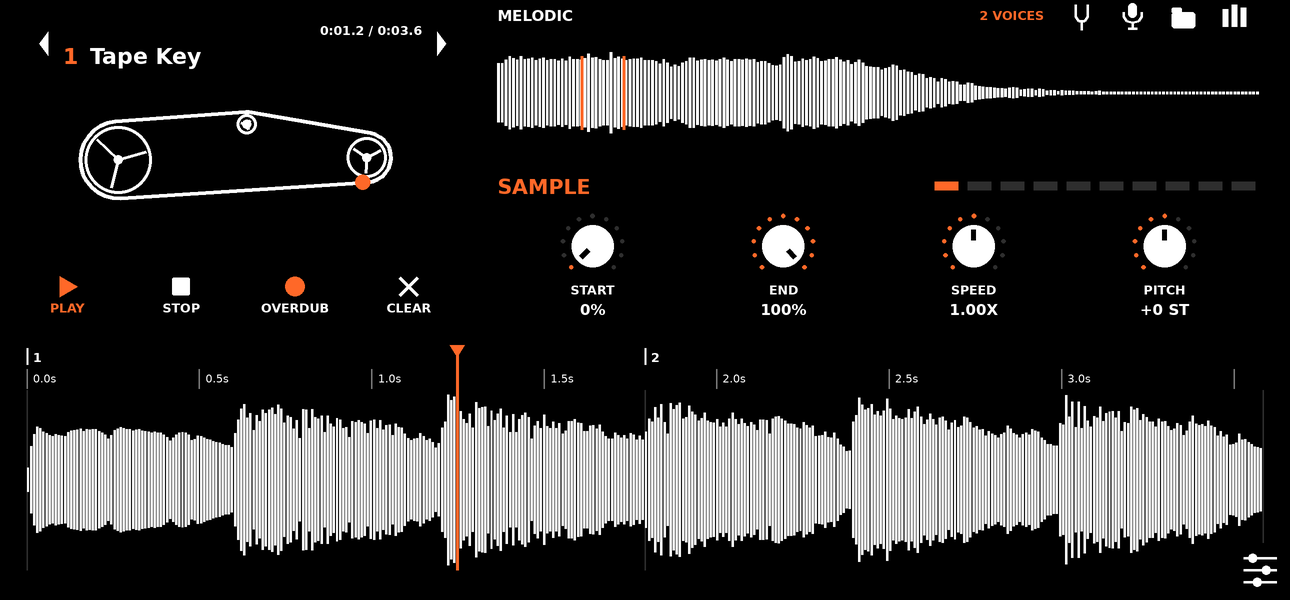
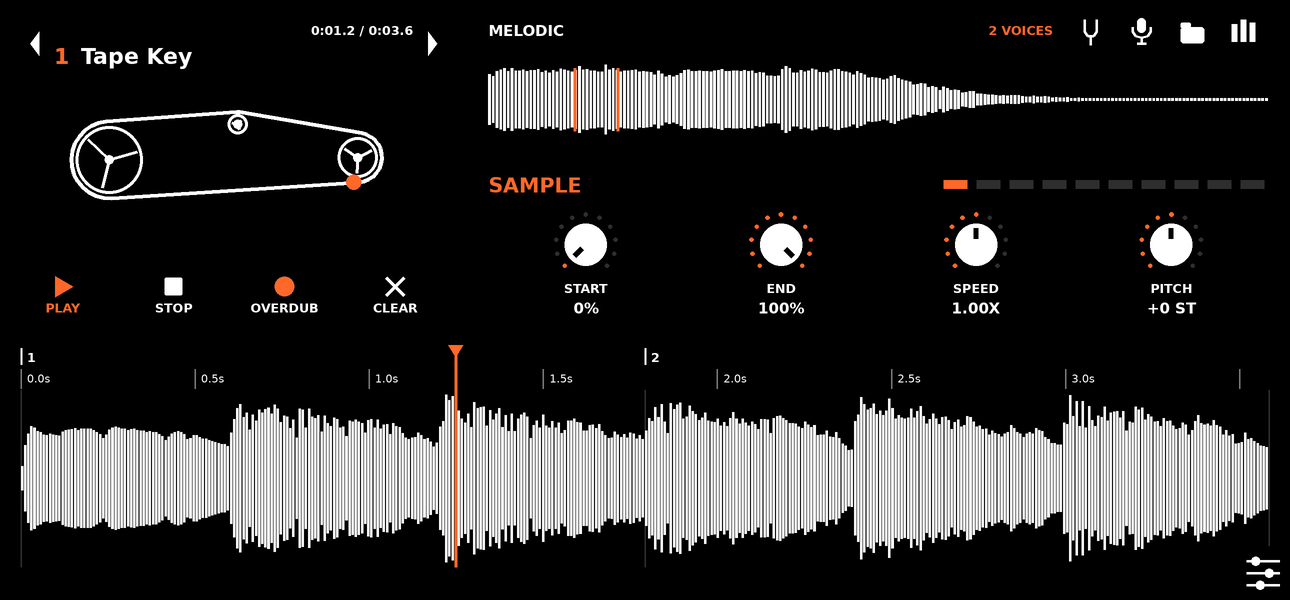
Drums: RMS loudness with a soft limiter instead of peak normalisation; deck layout on one grid (margins, text lines, spans)

diff --git a/engine/ui/SamplerUI.cpp b/engine/ui/SamplerUI.cpp
@@ -387,31 +387,32 @@ void SamplerUI::key(Rect r, const std::string& label, int icon, bool on, std::fu
 void SamplerUI::deck(Rect r) {
     rrect({0, 0, W_, H_}, 0, kBg);
     const bool recOn = st_.freeRecording || st_.track_clip_rec[app_.track()], armed = st_.freeArmed;
-    const float top = 0, ch = 170, cw = std::min(ch * 1.75f, W_ * 0.42f);
-    const float cxl = 10, zr = W_ - 20, x0 = cxl + cw + 24, w0 = zr - x0;
+    // one grid: a margin M on all four sides; the cassette label, the sample view header and the counter share one text line (y = 20),
+    // the knob values and the transport labels share one line (y = 205), the timeline starts and ends on the same vertical lines as everything above it
+    const float M = 14, top = 0, ch = 170, cw = std::min(ch * 1.75f, W_ * 0.42f);
+    const float cxl = M - 10, zr = W_ - M, x0 = cxl + cw + 24, w0 = zr - x0;
     cassette({cxl, top, cw, ch});
-    const float vh = 100;
-    sampleView({x0, top + 2, w0, vh});
-    const float py = top + vh + 24;
+    const float py = 123, vh = py - 22 - 12;
+    sampleView({x0, 12, w0, vh});
     text(x0, py, 15, kOrange, SamplerApp::pageName(app_.page()), 0, true);
     for (int i = 0; i < 10; i++) {   // the pages as notches: tap one to go there (the FM-1 buttons do the same)
         Rect nr{zr - (10 - i) * 22.f, py - 11, 22, 22};
         rrect({nr.x + 3, py - 3, 16, 6}, 0, kTabs[i] == app_.page() ? kOrange : kLine);
         tap(nr, [this, i] { app_.gotoPage(kTabs[i]); });
     }
-    for (int i = 0; i < 4; i++) knob(x0 + w0 * (i + 0.5f) / 4, py + 40, app_.page(), i);
+    for (int i = 0; i < 4; i++) knob(x0 + w0 * (i + 0.5f) / 4, py + 40, app_.page(), i);   // the values sit at y = py + 82 = 205
     // transport under the cassette: PLAY, STOP, REC / OVERDUB; PROJECT and EDIT at the right end of the same row
-    const float ty = top + ch + 8, kh = 36, tg = 6, tkw = (cw - 3 * tg) / 4;
-    key({cxl, ty, tkw, kh}, "PLAY", 1, st_.playing, [this] { app_.transportSet(true); }, false);
-    key({cxl + tkw + tg, ty, tkw, kh}, "STOP", 4, false, [this] { app_.transportSet(false); }, false);
-    key({cxl + 2 * (tkw + tg), ty, tkw, kh}, app_.loopExists() ? "OVERDUB" : "REC", 3, recOn, [this] { app_.loopRecord(); }, false);
-    if (armed && (now_ / 400) % 2 == 0) rrect({cxl + 2 * (tkw + tg), ty + kh - 3, tkw, 3}, 0, kOrange);
-    key({cxl + 3 * (tkw + tg), ty, tkw, kh}, "CLEAR", 5, false, [this] { app_.loopClearTrack(); }, false);   // the loop of the selected track
+    const float ty = top + ch + 8, kh = 36, tg = 6, tkw = (cw - 8 - 3 * tg) / 4, tx0 = cxl + 4;   // the keys span the label above them
+    key({tx0, ty, tkw, kh}, "PLAY", 1, st_.playing, [this] { app_.transportSet(true); }, false);
+    key({tx0 + tkw + tg, ty, tkw, kh}, "STOP", 4, false, [this] { app_.transportSet(false); }, false);
+    key({tx0 + 2 * (tkw + tg), ty, tkw, kh}, app_.loopExists() ? "OVERDUB" : "REC", 3, recOn, [this] { app_.loopRecord(); }, false);
+    if (armed && (now_ / 400) % 2 == 0) rrect({tx0 + 2 * (tkw + tg), ty + kh - 3, tkw, 3}, 0, kOrange);
+    key({tx0 + 3 * (tkw + tg), ty, tkw, kh}, "CLEAR", 5, false, [this] { app_.loopClearTrack(); }, false);   // the loop of the selected track
     // (the PROJECT key is muted for now: projectSheet() stays, nothing opens it)
     const float tl = ty + kh + 10;
-    timeline({12, tl, W_ - 24, H_ - 12 - tl});
+    timeline({M - 6, tl, W_ - 2 * M + 12, H_ - M - tl});
     {   // the view switch: a pictogram of sliders in the bottom right corner opens the editor
-        const float sx = W_ - 20, sy = H_ - 20;
+        const float sx = W_ - M - 4, sy = H_ - M - 4;
         rrect({sx - 18, sy - 18, 36, 36}, 0, kBg);
         for (int i = 0; i < 3; i++) { line(sx - 11, sy - 8 + i * 8, sx + 11, sy - 8 + i * 8, kPaper, 1.6f); circle(sx - 5 + (i == 1 ? 9 : i == 2 ? 3 : 0), sy - 8 + i * 8, 3, kPaper); }
         tap({sx - 28, sy - 28, 56, 56}, [this] { editor_ = true; });

diff --git a/engine/dsp/Sampler.cpp b/engine/dsp/Sampler.cpp
@@ -13,7 +13,7 @@ bool Sampler::load(const std::string& path) {
     if (!readWav(path, buf->d, buf->sr)) return false;
     buf->frames = (int)(buf->d.size() / 2);
     if (buf->frames < 64) return false;
-    // loudness normalisation: the RMS of the part that sounds (20 ms blocks within 30 dB of the loudest one) goes to a common level, the peak never passes 0.95
+    // loudness normalisation: the RMS of the part that sounds (20 ms blocks within 30 dB of the loudest one) goes to a common level
     float pk = 0.f; for (float v : buf->d) pk = std::max(pk, std::fabs(v));
     if (pk > 1e-4f) {
         const int blk = std::max(64, buf->sr / 50); const int nb = std::max(1, buf->frames / blk);
@@ -21,8 +21,14 @@ bool Sampler::load(const std::string& path) {
         for (int b = 0; b < nb; b++) { double s = 0; for (int i = b * blk; i < (b + 1) * blk && i < buf->frames; i++) s += (double)buf->d[2 * (size_t)i] * buf->d[2 * (size_t)i] + (double)buf->d[2 * (size_t)i + 1] * buf->d[2 * (size_t)i + 1]; e[(size_t)b] = s / (2.0 * blk); emax = std::max(emax, e[(size_t)b]); }
         double sum = 0; int cnt = 0; for (double v : e) if (v > emax * 1e-3) { sum += v; cnt++; }
         const float rms = cnt ? (float)std::sqrt(sum / cnt) : pk;
-        const float g = std::min(0.95f / pk, 0.25f / std::max(rms, 1e-4f));
-        for (float& v : buf->d) v *= g;
+        // sparse, peaky material (drums) would stay quiet if only the peak were normalised: it gets the same RMS as sustained sounds, up to +10 dB of peak,
+        // and a soft limiter (smooth knee at 0.6, ceiling 0.98) keeps what rises above that
+        const float g = std::min(std::min(3.0f / pk, 0.25f / std::max(rms, 1e-4f)), 16.f);
+        for (float& v : buf->d) {
+            float x = v * g; const float ax = std::fabs(x);
+            if (ax > 0.6f) x = (x < 0 ? -1.f : 1.f) * (0.6f + 0.38f * std::tanh((ax - 0.6f) / 0.38f));
+            v = x;
+        }
     }
     peaks_.assign(512, 0.f);
     for (int b = 0; b < 512; b++) {

diff --git a/engine/tools/test_app.cpp b/engine/tools/test_app.cpp
@@ -108,6 +108,11 @@ int main() {
       s.loadSamplePath("/tmp/fm1sampler_t2/tone_quiet.wav", false, 6); s.loadSamplePath("/tmp/fm1sampler_t2/tone_loud.wav", false, 7); run(2.0);
       float pkq = 0, pkl = 0; auto pq = s.samplePeaksOf(6, 64), pl = s.samplePeaksOf(7, 64); for (float v : pq) pkq = std::max(pkq, v); for (float v : pl) pkl = std::max(pkl, v);
       CHECK(pkq > 0.2f && std::fabs(pkq - pkl) < 0.05f * std::max(pkq, pkl) + 0.02f, "loudness normalisation: quiet (%.3f) and loud (%.3f) tones end up equally loud", pkq, pkl);
+      {   // a sparse drum hit (a sharp decaying burst, then silence) must not stay quiet next to a sustained tone
+        std::vector<float> st; unsigned rs = 1; for (int i = 0; i < 2 * sr; i++) { rs = rs * 1664525u + 1013904223u; const float nz = ((rs >> 8) & 0xffff) / 32768.f - 1.f; const float v = 0.9f * nz * std::exp(-i / (0.04f * sr)); st.push_back(v); st.push_back(v); }
+        writeWav16("/tmp/fm1sampler_t2/drum_hit.wav", st, sr); s.loadSamplePath("/tmp/fm1sampler_t2/drum_hit.wav", false, 4); run(1.5);
+        auto pd = s.samplePeaksOf(4, 64); float pkd = 0; for (float v : pd) pkd = std::max(pkd, v);
+        CHECK(pkd > 0.7f && pkd <= 1.0f, "drum hit: peaks high but limited (%.3f)", pkd); }
       const float m = s.detectRoot(6); CHECK(std::fabs(m - 57.f) < 0.15f, "auto-tune: a 220 Hz tone is detected as A3 = note 57 (%.3f)", m);
       s.loadSamplePath("/tmp/fm1sampler_t2/tone_flat.wav", false, 5); run(1.0);
       const float mf = s.detectRoot(5); CHECK(std::fabs(mf - 57.3f) < 0.15f, "...and a tone 30 cents sharp as 57.3 (%.3f)", mf);

diff --git a/README.md b/README.md
@@ -43,7 +43,7 @@ APK and the flash page of the matching firmware are attached to the [releases](.
 | keys | KIT algorithm: all 27 keys are pads (note 60 + key, 16 slices repeat over the keys), every key lit, tonality and octave ignored. Otherwise the firmware is kept on a plain chromatic keyboard (scale OFF, SysEx 06 always sends 7; notes 53+key) so keys outside the tonality still play; the app adds the octave, builds triads itself in CHORD mode and lights ONLY keys that belong to the scale (root of each octave blinks; scale OFF: only roots); a sounding key goes dark. |
 
 ## Levels and tuning
-- Every sample is loudness-normalised on load (`Sampler::load`): the RMS of the part that sounds (20 ms blocks within 30 dB of the loudest) goes to 0.25, the peak never passes 0.95, so short hits and long pads sit at similar levels.
+- Every sample is loudness-normalised on load (`Sampler::load`): the RMS of the part that sounds (20 ms blocks within 30 dB of the loudest) goes to 0.25 (gain capped at +10 dB of peak), a soft limiter (knee 0.6, ceiling 0.98) keeps the peaks, so sparse material such as drums is as loud as sustained sounds.
 - Auto-tune (tuning fork pictogram in the sample view, MELODIC and ONE-SHOT only): `dsp/Pitch.h` (YIN on the loudest window of the first 1.5 s) finds the pitch, the track's root note becomes that pitch (`Sampler::setRoot`), so the keys sound the right notes; tap again to reset. A new sample resets it. The phone CLEAR key clears the loop of the selected track.
 
 ## Sample sources
